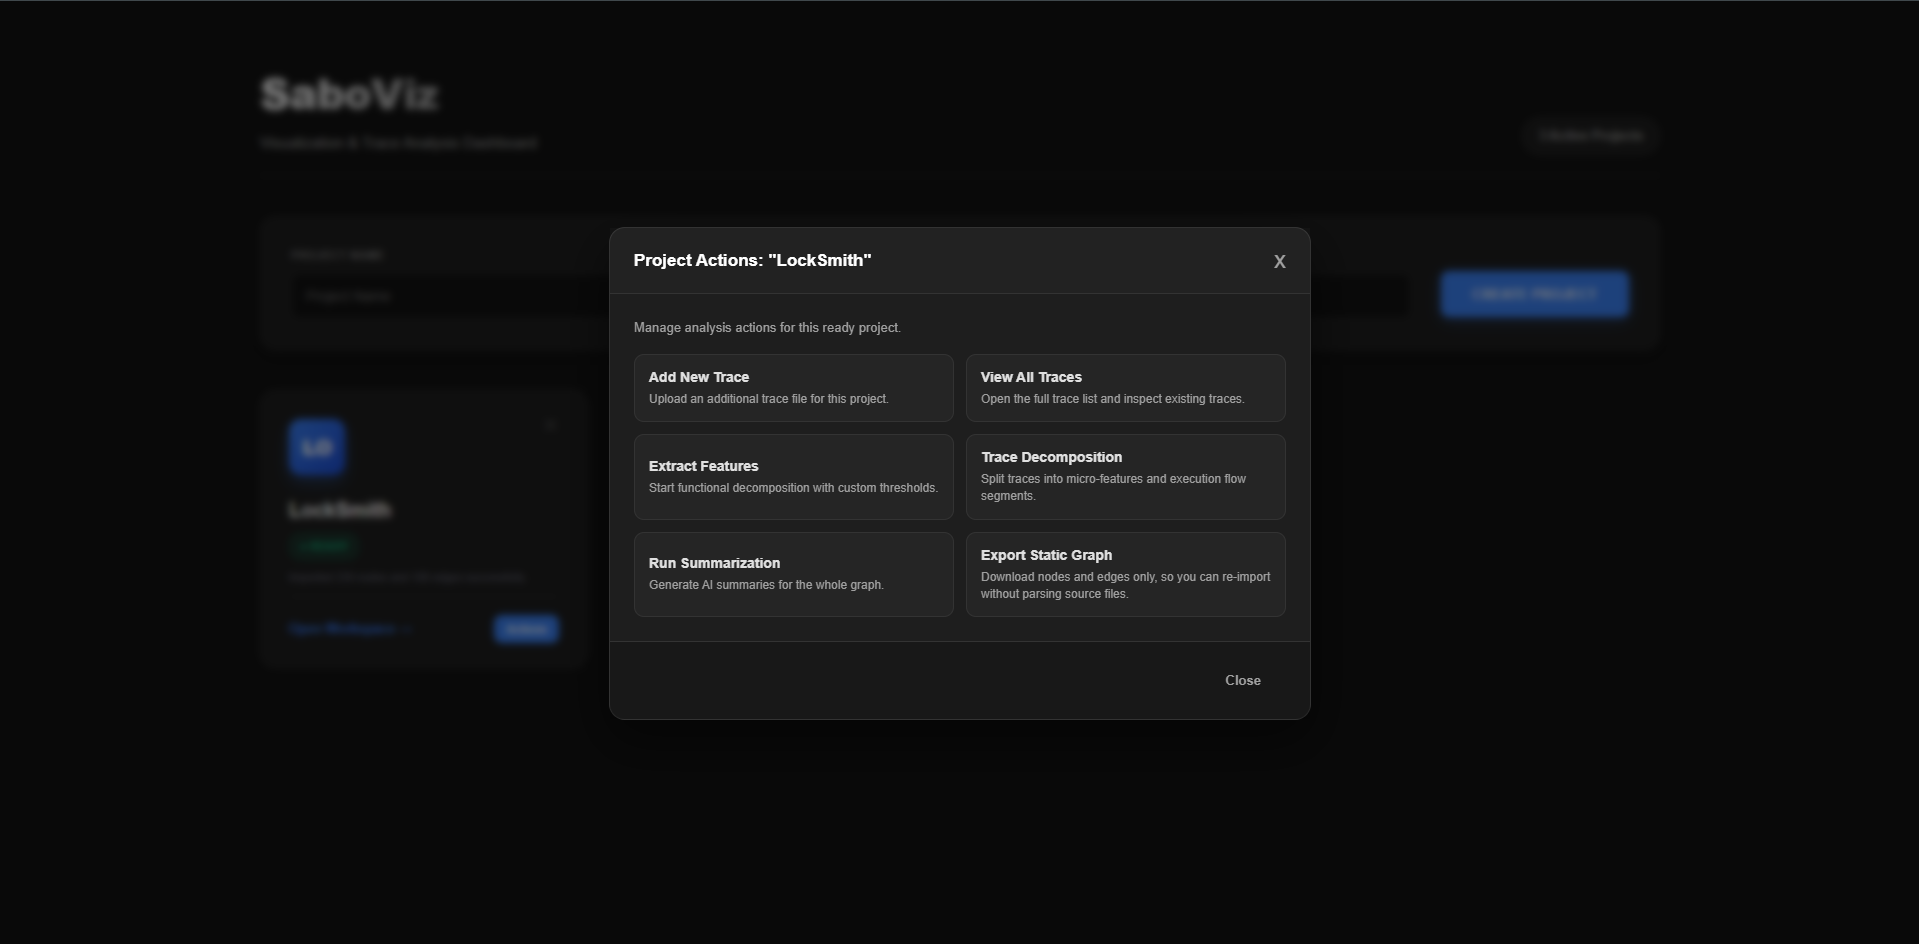
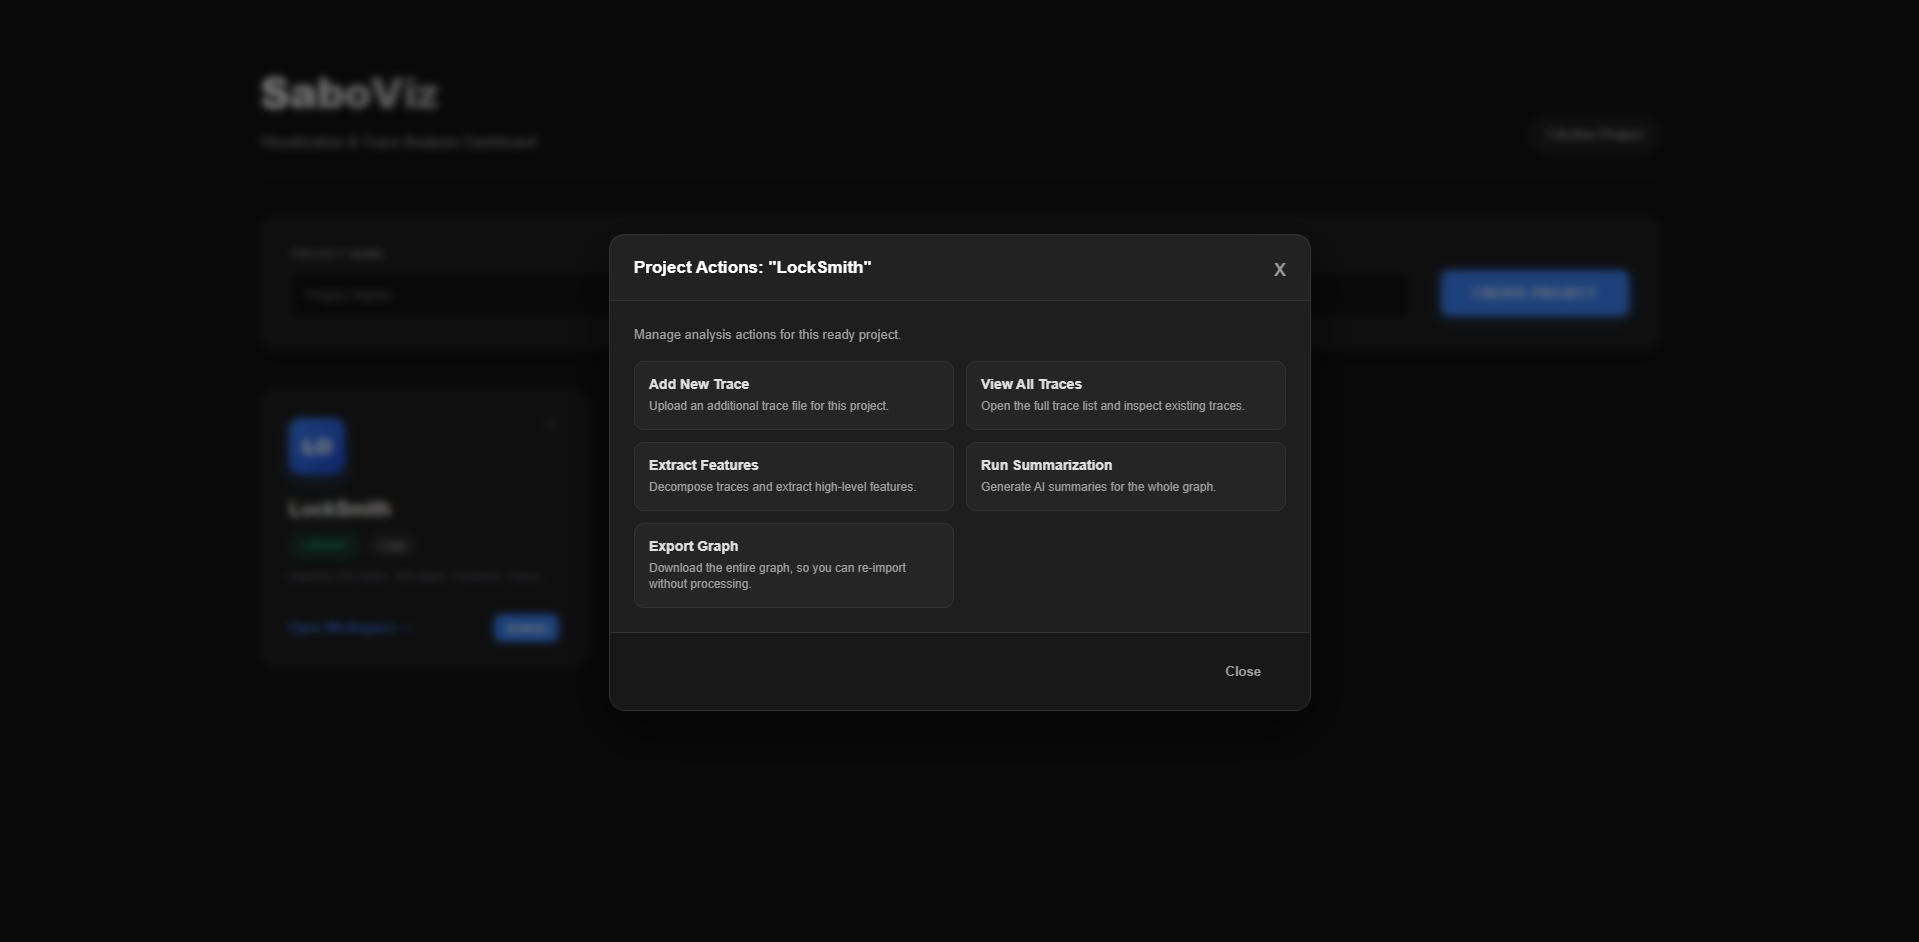
Updated Feature Extraction in USAGE GUIDE

diff --git a/docs/USAGE_GUIDE.md b/docs/USAGE_GUIDE.md
@@ -10,7 +10,6 @@ Welcome to the SaboViz Usage Guide. This document will walk you through the core
   - [Adding Execution Traces](#adding-execution-traces)
   - [Managing Traces (View All Traces)](#managing-traces-view-all-traces)
   - [Extracting Features (Functional Decomposition)](#extracting-features-functional-decomposition)
-  - [Trace Decomposition (Micro-Feature Segmentation)](#trace-decomposition-micro-feature-segmentation)
 - [2. The Graph Page: Architecture Visualization](#2-the-graph-page-architecture-visualization)
   - [Interacting with the Architecture](#interacting-with-the-architecture)
   - [Structural Filters (Edge Visibility)](#structural-filters-edge-visibility)
@@ -68,8 +67,7 @@ Once your static project is ready, you can manage your dynamic data and trigger 
 
 * **Add New Trace:** Upload an additional execution trace file (`.log`) for this project to merge runtime behavior with your static graph.
 * **View All Traces:** Open the full trace list to inspect, manage, or delete traces that have already been uploaded.
-* **Extract Features:** Starts the functional decomposition process. You can set custom thresholds to cluster entities based on their runtime interactions, automatically identifying high-level system features.
-* **Trace Decomposition:** Splits raw, chronological traces into distinct micro-features and coherent execution flow segments to make them readable.
+* **Extract Features:** Starts the main runtime analysis pipeline. SaboViz automatically breaks traces into readable execution segments and then groups the participating operations into high-level system features.
 * **Run Summarization:** Generates AI summaries for the entire graph (useful if you did not enable auto-summarization during project creation).
 * **Export Graph:** Downloads the current state of the graph as a file. This allows you to re-import the project later without needing to re-do the heavy processing.
 
@@ -116,36 +114,23 @@ For each trace, SaboViz provides a detailed breakdown of how successfully the dy
 ### Extracting Features (Functional Decomposition)
 To identify the high-level system features based on your uploaded execution traces, open the Project Actions modal and click **Extract Features**. 
 
-This process uses a hierarchical agglomerative clustering algorithm to group software entities that frequently interact at runtime. When you start the extraction, you will be prompted to configure the following parameters:
+Running **Extract Features** does two things at once:
 
-| Parameter | Description |
+1. It breaks each uploaded trace into readable micro-features and larger execution-flow phases.
+2. It uses those decomposed traces to recover high-level system features and infrastructure groups.
+
+As a result, the **FUNCTIONAL** tab and the **TRACE** tab on the Graph Page are both populated by this single action.
+
+When you start the extraction, the only user-facing option is:
+
+| Option | Description |
 | :--- | :--- |
-| **Distance Threshold** *(e.g., 0.4)* | Controls the granularity of the clusters. A lower value requires entities to be highly coupled to form a feature (resulting in smaller, highly specific features). A higher value allows looser coupling (resulting in larger, broader features). |
-| **Infrastructure Threshold** *(e.g., 0.3)* | Helps isolate utility or infrastructure components (e.g., generic database drivers, logging modules) that are called globally across multiple features. Properly setting this prevents generic utility classes from being improperly merged into specific business-logic features. |
-| **Use AI for Feature Naming** | When enabled, SaboViz passes the clustered entities to the integrated LLM. Instead of generic names like "Feature 1", the AI automatically generates meaningful, human-readable names and descriptions for each discovered feature. |
+| **Use AI for Feature Naming & Description** | When enabled, SaboViz passes each recovered cluster to the integrated LLM so the resulting features receive human-readable names and descriptions instead of default statistical labels. |
 
-Select your desired thresholds and click **Start Extraction** to begin the functional decomposition process.
+Once you confirm, click **Start Extraction** to begin the full pipeline.
 
 ![Extract Features Modal](assets/extract-features-modal.png)
-*(Image: The Extract Features configuration modal showing the distance threshold, infrastructure threshold, and AI naming toggle.)*
-
----
-
-### Trace Decomposition (Micro-Feature Segmentation)
-To break down long, complex execution traces into readable, logical segments (micro-features), open the Project Actions modal and click **Trace Decomposition**. 
-
-This process analyzes the sequence of dynamic events and automatically detects boundaries between different sub-phases of a trace. When you start the decomposition, you will be prompted to configure the following parameters:
-
-| Parameter | Description |
-| :--- | :--- |
-| **PELT Penalty** *(e.g., 30.0)* | Controls the sensitivity of the changepoint detection algorithm (Pruned Exact Linear Time). A higher penalty makes the algorithm stricter, resulting in fewer, larger execution segments. A lower penalty makes it more sensitive, resulting in many smaller, granular micro-features. |
-| **Hierarchical Distance Threshold** *(e.g., 0.50)* | Determines how segmented execution blocks are grouped. A lower threshold requires segments to be highly structurally similar to be clustered into the same micro-feature category. |
-| **Use AI for Micro-feature Naming** | When enabled, SaboViz passes the segmented execution blocks to the LLM to generate context-aware, human-readable phase names. When disabled, the system relies strictly on fast, rule-based labeling. |
-
-Select your desired parameters and click **Start Trace Decomposition** to process all uploaded traces for the current project.
-
-![Trace Decomposition Modal](assets/trace-decomposition-modal.png)
-*(Image: The Trace Decomposition configuration modal showing the PELT penalty, distance threshold, and AI naming toggle.)*
+*(Image: The Extract Features configuration modal showing the AI naming toggle.)*
 
 ---
 
@@ -338,7 +323,7 @@ Click and drag the panel by its header to move it around the screen. You can con
 ### Recovered Features
 On the left side of the Graph Page, within the **Sidebar Panel**, you can switch to the **FUNCTIONAL** tab. This tab populates after you have executed the Functional Decomposition ("Extract Features") from the Project Actions menu.
 
-Here, you can manage and visualize the high-level system functionalities that SaboViz automatically identified from your runtime execution traces:
+Here, you can manage and visualize the high-level system functionalities that SaboViz automatically identified from the decomposed execution episodes extracted from your runtime traces:
 
 * **Toggle Feature Visibility:** Click on any feature card to highlight it. Selecting a feature will visually isolate the specific nodes and edges in the architecture graph that actively contribute to that feature during execution. An active checkmark (✓) indicates the feature is currently toggled on.
 * **Feature Categories:** SaboViz visually distinguishes the roles of your clustered entities. Standard business-logic features are represented by a puzzle piece icon (🧩), while global infrastructure or utility modules are represented by a gear icon (⚙️).
@@ -351,19 +336,19 @@ Here, you can manage and visualize the high-level system functionalities that Sa
 ---
 
 ### Trace Decomposition
-On the left side of the Graph Page, within the **Sidebar Panel**, you can switch to the **TRACE** tab. This tab populates after you run **Trace Decomposition** from the Project Actions menu.
+On the left side of the Graph Page, within the **Sidebar Panel**, you can switch to the **TRACE** tab. This tab populates after you run **Extract Features** from the Project Actions menu.
 
-The Trace tab helps you understand the chronological flow of a specific execution trace by breaking down thousands of raw operations into a readable hierarchy of logical phases.
+The Trace tab helps you understand the chronological flow of a specific execution trace by showing the automatically detected micro-features and the larger logical phases recovered during feature extraction.
 
 #### Trace Flow (Macro and Micro-Features)
 The top section of the Trace tab displays the **Trace Flow** timeline, which organizes the execution sequence into two levels of abstraction:
 
-* **The Hierarchical Flow:** These top-level segments represent large, coherent chapters of execution (e.g., a complete "User Authentication" phase). They are created by grouping structurally similar micro-features together. **Double-clicking** a segment in the hierarchical flow expands it to reveal its underlying children (the micro-features).
+* **The Hierarchical Flow:** These top-level segments represent large, coherent chapters of execution (e.g., a complete "User Authentication" phase). They are created by hierarchically merging adjacent micro-features into larger execution episodes. **Double-clicking** a segment in the hierarchical flow expands it to reveal its underlying children.
 * **The Micro-Feature Flow:** These are the granular, sequential building blocks that make up a hierarchical phase. They represent distinct, short-lived tasks within the trace (e.g., "Validating Password Hash"). 
 
 **Clicking** on any segment in the flow (either a hierarchical macro-phase or a micro-feature) will instantly isolate it and reveal additional contextual information:
 
-* **AI Naming & Summary (✨):** If enabled during the trace decomposition, clicking a segment displays its AI-generated human-readable name and a descriptive summary explaining the specific goal of that system phase.
+* **AI Naming & Summary (✨):** If enabled during feature extraction, clicking a segment displays its AI-generated human-readable name and a descriptive summary explaining the specific goal of that system phase.
 * **Highlighting Steps:** Selecting a segment will automatically scroll and highlight the associated raw operations in the **Steps List** below.
 * **Highlight Cluster Component Button:** When a segment is selected, you can click the "Highlight Cluster Components" button. This action visually isolates the specific static architectural components (nodes and edges) on the main graph canvas that are involved in this exact execution segment, dimming the rest of the architecture.
 